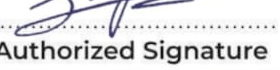
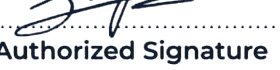
edit doc

diff --git a/components/DocumentGenerator.js b/components/DocumentGenerator.js
@@ -146,6 +146,50 @@ export default function DocumentGenerator({ applicantData, onClose }) {
     }));
   };
 
+  const removeSignatureBackground = (dataUrl) => {
+    return new Promise((resolve) => {
+      if (!dataUrl || typeof dataUrl !== 'string') return resolve(dataUrl);
+      const img = new Image();
+      img.crossOrigin = 'anonymous';
+      img.onload = () => {
+        try {
+          const canvas = document.createElement('canvas');
+          canvas.width = img.width;
+          canvas.height = img.height;
+          const ctx = canvas.getContext('2d');
+          ctx.drawImage(img, 0, 0);
+          const imgData = ctx.getImageData(0, 0, canvas.width, canvas.height);
+          const d = imgData.data;
+          for (let i = 0; i < d.length; i += 4) {
+            const r = d[i], g = d[i+1], b = d[i+2];
+            const lum = 0.299 * r + 0.587 * g + 0.114 * b;
+            if (lum >= 215) {
+              d[i+3] = 0;
+            } else if (lum <= 100) {
+              d[i+3] = 255;
+            } else {
+              d[i+3] = Math.round(255 * (215 - lum) / (215 - 100));
+            }
+          }
+          ctx.putImageData(imgData, 0, 0);
+          resolve(canvas.toDataURL('image/png'));
+        } catch {
+          resolve(dataUrl);
+        }
+      };
+      img.onerror = () => resolve(dataUrl);
+      img.src = dataUrl;
+    });
+  };
+
+  useEffect(() => {
+    if (userSignature) {
+      removeSignatureBackground(userSignature).then(clean => {
+        setDocFields(prev => ({ ...prev, signatureUrl: clean }));
+      }).catch(() => {});
+    }
+  }, [userSignature]);
+
   const handleSignatureUpload = (e) => {
     const file = e.target.files?.[0];
     if (file) {
@@ -604,7 +648,7 @@ export default function DocumentGenerator({ applicantData, onClose }) {
                       <div className="pt-3 flex items-end justify-between border-t border-slate-200">
                         <div className="space-y-0.5 text-[10px]">
                           <div className="h-8 mb-1 flex items-center">
-                            <img src="/documents/sig_officer.png" alt="Signature" className="h-full object-contain" />
+                            <img src="/documents/sig_officer.png" alt="Signature" className="h-full object-contain mix-blend-multiply select-none" />
                           </div>
                           <p className="font-medium text-slate-600">Sincerely,</p>
                           <p className="font-bold text-slate-900">{docFields.officerName || 'Md Hannan Mia'}</p>
@@ -740,9 +784,7 @@ export default function DocumentGenerator({ applicantData, onClose }) {
                         <div className="text-center">
                           <div className="border-b-2 border-dotted border-slate-600 px-4 mb-0.5 h-8 flex items-center justify-center">
                             <img
-                              src="/documents/sig_officer.png"
-                              alt="Authorized Signature"
-                              className="h-full object-contain"
+                              src="/documents/sig_officer.png" alt="Authorized Signature" className="h-full object-contain mix-blend-multiply select-none"
                             />
                           </div>
                           <span className="text-[10px] font-bold text-slate-700">Authorized Signature</span>
@@ -854,9 +896,7 @@ export default function DocumentGenerator({ applicantData, onClose }) {
                         <div className="text-center">
                           <div className="w-36 border-b border-slate-800 mb-1 h-7 flex items-center justify-center">
                             <img
-                              src="/documents/sig_officer.png"
-                              alt="Signature"
-                              className="h-full object-contain"
+                              src="/documents/sig_officer.png" alt="Signature" className="h-full object-contain mix-blend-multiply select-none"
                             />
                           </div>
                           <span className="text-[9px] text-slate-600 font-medium">Please Sign Above</span>
@@ -961,9 +1001,7 @@ export default function DocumentGenerator({ applicantData, onClose }) {
                           <div className="text-center space-y-1">
                             <div className="w-28 sm:w-36 border-b border-slate-900 pb-0.5 h-7 sm:h-8 flex items-center justify-center">
                               <img
-                                src="/documents/sig_officer.png"
-                                alt="Bank Authority Signature"
-                                className="h-full object-contain"
+                                src="/documents/sig_officer.png" alt="Bank Authority Signature" className="h-full object-contain mix-blend-multiply select-none"
                               />
                             </div>
                             <span className="text-[9px] sm:text-[10px] font-bold text-slate-900">ব্যাংক কর্তৃপক্ষের স্বাক্ষর</span>
@@ -973,7 +1011,7 @@ export default function DocumentGenerator({ applicantData, onClose }) {
                           <div className="text-center space-y-1">
                             <div className="w-28 sm:w-36 border-b border-slate-900 pb-0.5 flex items-center justify-center h-7 sm:h-8">
                               {docFields.signatureUrl ? (
-                                <img src={docFields.signatureUrl} alt="Signature" className="max-h-6 sm:max-h-7 max-w-[120px] object-contain" />
+                                <img src={docFields.signatureUrl} alt="Signature" className="max-h-6 sm:max-h-7 max-w-[120px] object-contain mix-blend-multiply select-none" />
                               ) : (
                                 <span className="font-serif italic text-blue-900 font-bold text-xs">{docFields.name}</span>
                               )}
@@ -1054,9 +1092,7 @@ export default function DocumentGenerator({ applicantData, onClose }) {
                         <div className="text-left space-y-0.5">
                           <div className="w-28 sm:w-36 border-b border-slate-700 pb-0.5 h-7 sm:h-8 flex items-center">
                             <img
-                              src="/documents/sig_officer.png"
-                              alt="Signature"
-                              className="h-full object-contain"
+                              src="/documents/sig_officer.png" alt="Signature" className="h-full object-contain mix-blend-multiply select-none"
                             />
                           </div>
                           <p className="text-[9px] sm:text-[10px] font-bold text-slate-900">স্বাক্ষরিত</p>
@@ -1259,7 +1295,7 @@ export default function DocumentGenerator({ applicantData, onClose }) {
                       <div className="text-center">
                         <div className="w-28 h-10 border-b border-slate-400 mb-1 flex items-center justify-center">
                           {docFields.signatureUrl ? (
-                            <img src={docFields.signatureUrl} alt="Receiver Signature" className="max-h-8 max-w-[95px] object-contain" />
+                            <img src={docFields.signatureUrl} alt="Receiver Signature" className="max-h-8 max-w-[95px] object-contain mix-blend-multiply select-none" />
                           ) : (
                             <span className="font-serif italic text-xs text-slate-800">{docFields.name}</span>
                           )}
@@ -1307,7 +1343,7 @@ export default function DocumentGenerator({ applicantData, onClose }) {
                       <div className="text-center">
                         <div className="w-24 h-10 border-b border-slate-400 mb-1 flex items-center justify-center">
                           {docFields.signatureUrl ? (
-                            <img src={docFields.signatureUrl} alt="Applicant Signature" className="max-h-8 max-w-[95px] object-contain" />
+                            <img src={docFields.signatureUrl} alt="Applicant Signature" className="max-h-8 max-w-[95px] object-contain mix-blend-multiply select-none" />
                           ) : (
                             <span className="font-serif italic text-xs text-slate-800">{docFields.name}</span>
                           )}
@@ -1358,7 +1394,7 @@ export default function DocumentGenerator({ applicantData, onClose }) {
                         <img
                           src={docFields.signatureUrl}
                           alt="Subject Signature"
-                          className="max-h-12 sm:max-h-16 md:max-h-20 max-w-full object-contain"
+                          className="max-h-12 sm:max-h-16 md:max-h-20 max-w-full object-contain mix-blend-multiply select-none"
                         />
                       ) : (
                         <span className="font-serif italic font-bold text-xs sm:text-sm text-slate-800">
@@ -1372,7 +1408,7 @@ export default function DocumentGenerator({ applicantData, onClose }) {
                       <img
                         src="/documents/police_officer_signature.png"
                         alt="Officer in Charge Signature"
-                        className="max-h-16 sm:max-h-20 md:max-h-24 max-w-full object-contain"
+                        className="max-h-16 sm:max-h-20 md:max-h-24 max-w-full object-contain mix-blend-multiply select-none"
                       />
                     </div>
 
